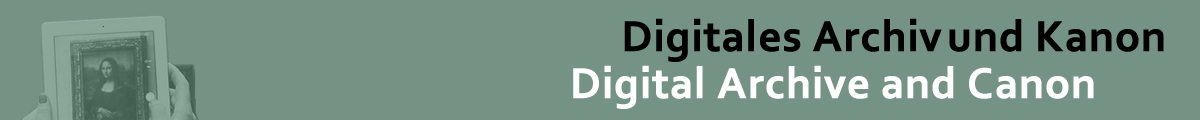
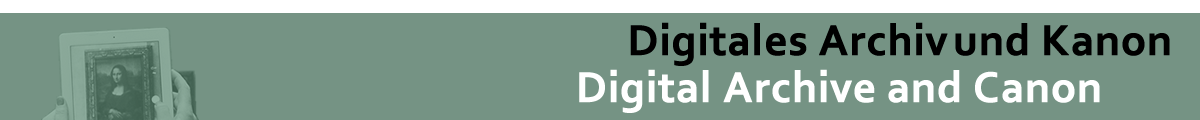
#18265A -> #759384

diff --git a/assets/main.scss b/assets/main.scss
@@ -2,8 +2,8 @@
 # Only the main Sass file needs front matter (the dashes are enough)
 ---
 
-$link-color: #18265A;
-$masthead-link-color: #18265A;
+$link-color: #759384;
+$masthead-link-color: #759384;
 
 @import "{{ site.theme }}";
 
@@ -41,7 +41,7 @@ $masthead-link-color: #18265A;
 // change padding of headings
 h1 {
     margin-top:2.5rem !important; 
-    color: #18265A;
+    color: #759384;
      font-size: 28px;
 }
 
@@ -57,7 +57,7 @@ h3, h4 {
 .post-title { margin-top: .5rem !important; }
  
 .site-title, .site-title:visited {
-    color: #18265A;
+    color: #759384;
     font-family: Arial;
     font-size: 34px;     
     margin-top: 10px;
@@ -72,10 +72,10 @@ table {
 }
 
 a:visited {
-    color: #18265A; 
+    color: #759384; 
 }
 .footer-heading {
-        color: #18265A;
+        color: #759384;
         font-family: Arial;
         font-size: 25px;
 }
@@ -85,7 +85,7 @@ a:visited {
 }
 
 .site-header {
-    border-top: 15px solid #18265A;
+    border-top: 15px solid #759384;
     border-bottom: 1px solid #e8e8e8;
     min-height: 55.95px;
     position: relative;

diff --git a/Agenda.md b/Agenda.md
@@ -3,10 +3,10 @@ layout: page
 title: Agenda
 permalink: /agenda/
 ---
-
-## Agenda
  
 ![](images/cover.png)
+
+# 10.3.2021
 
 tba
 
